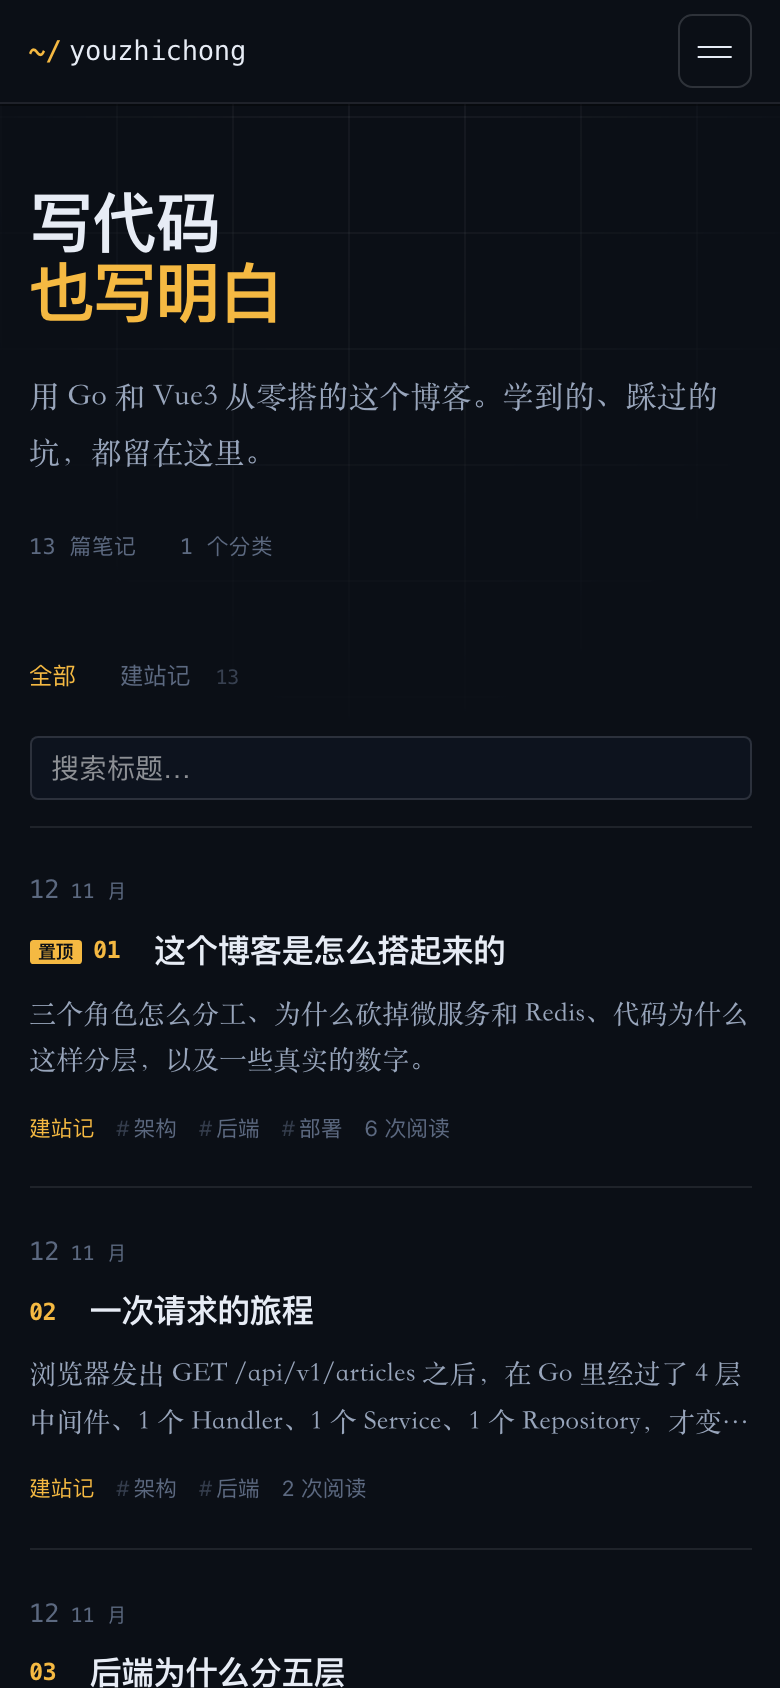
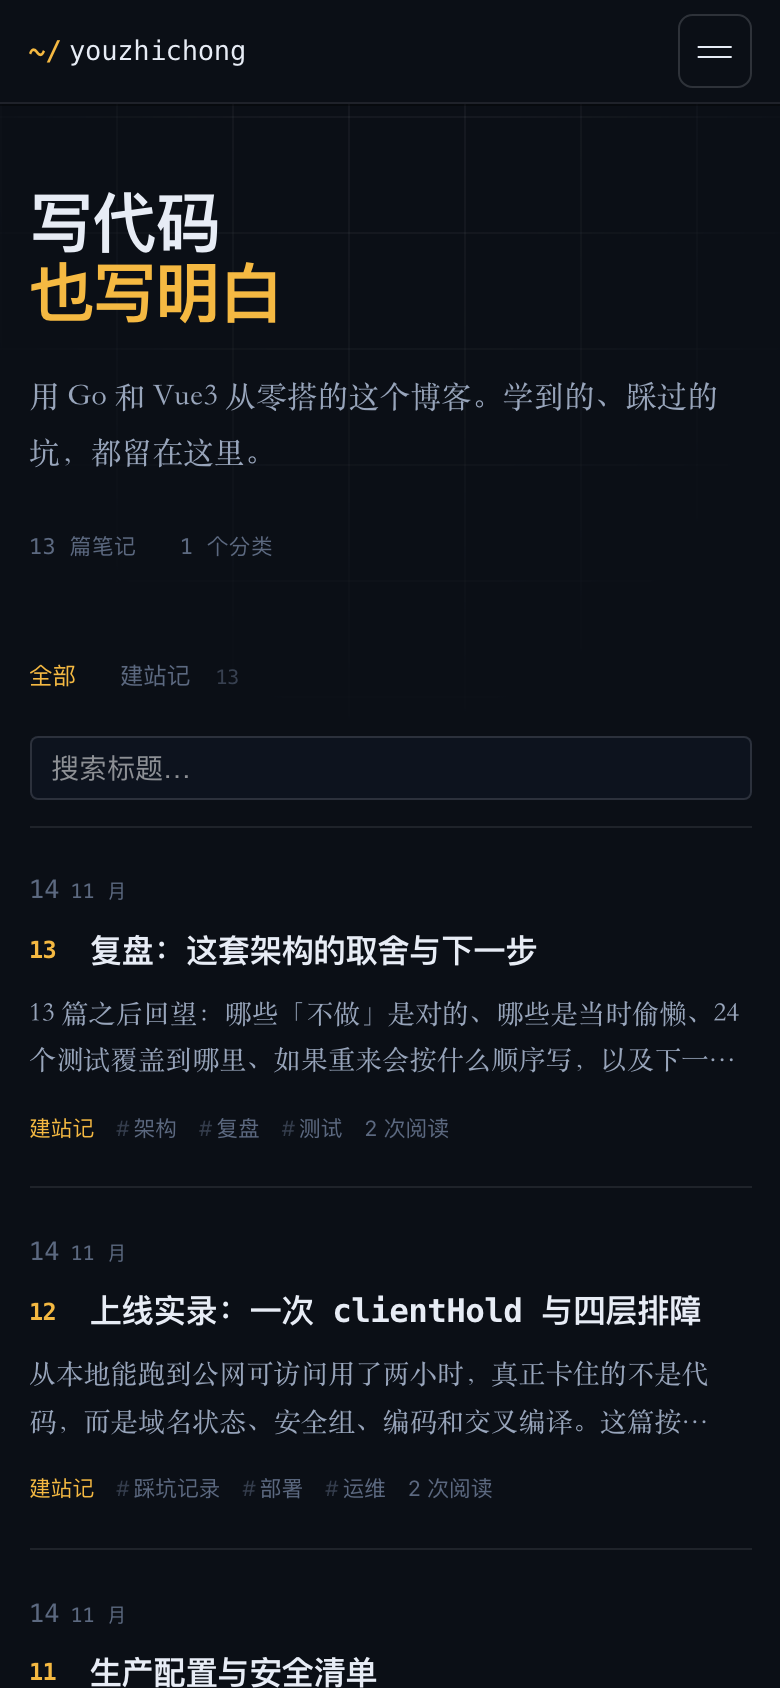
AI: #000000 调整首页排序并重做后台表格与编辑器配色

Changed region(s): [[0.0308, 0.7701, 0.9538, 0.8934], [0.0308, 0.5545, 0.9538, 0.6777], [0.0308, 0.9858, 0.4923, 1.0]]

diff --git a/frontend/src/views/admin/ArticleEdit.vue b/frontend/src/views/admin/ArticleEdit.vue
@@ -10,7 +10,7 @@ import {
 } from '../../api/admin'
 import { fetchCategories, fetchTags } from '../../api/article'
 import { renderMarkdown } from '../../utils/markdown'
-import 'highlight.js/styles/github.css'
+import 'highlight.js/styles/github-dark.css'
 
 const route = useRoute()
 const router = useRouter()
@@ -228,19 +228,19 @@ onMounted(async () => {
 <style scoped>
 .grid {
   display: grid;
-  grid-template-columns: minmax(0, 1fr) 300px;
-  gap: 18px;
+  grid-template-columns: minmax(0, 1fr) 320px;
+  gap: 1rem;
   align-items: start;
 }
 
 .editor {
-  background: #fff;
+  background: var(--panel);
   border: 1px solid var(--line);
-  border-radius: 12px;
-  padding: 18px;
+  border-radius: 0.75rem;
+  padding: 1.125rem;
   display: flex;
   flex-direction: column;
-  gap: 12px;
+  gap: 0.75rem;
 }
 
 .title-input :deep(input) {
@@ -262,11 +262,13 @@ onMounted(async () => {
 
 .preview {
   min-height: 200px;
-  padding: 4px 6px;
-  border: 1px dashed var(--line);
-  border-radius: 8px;
-  font-size: 15px;
-  line-height: 1.8;
+  padding: 1rem 1.125rem;
+  border: 1px solid var(--line);
+  border-radius: 0.5rem;
+  background: #0b0f16;
+  font-size: 0.9375rem;
+  line-height: 1.85;
+  color: var(--ink-2);
 }
 
 .side {
@@ -276,15 +278,24 @@ onMounted(async () => {
 }
 
 .side-block {
-  background: #fff;
+  background: var(--panel);
   border: 1px solid var(--line);
-  border-radius: 12px;
-  padding: 16px;
+  border-radius: 0.75rem;
+  padding: 1rem;
+}
+
+.side-block :deep(.el-form-item__label) {
+  color: var(--ink-2);
+  font-size: 0.75rem;
 }
 
 .side-block h4 {
-  margin: 0 0 12px;
-  font-size: 14px;
+  margin: 0 0 0.875rem;
+  padding-bottom: 0.625rem;
+  border-bottom: 1px solid var(--line);
+  font-family: var(--font-sans);
+  font-size: 0.875rem;
+  color: var(--ink);
 }
 
 .cover-box {
@@ -298,12 +309,13 @@ onMounted(async () => {
 }
 
 .cover-empty {
-  height: 90px;
-  border: 1px dashed var(--line);
-  border-radius: 8px;
+  height: 96px;
+  border: 1px dashed var(--line-strong);
+  border-radius: 0.5rem;
+  background: #0b0f16;
   display: grid;
   place-items: center;
-  font-size: 13px;
+  font-size: 0.8125rem;
 }
 
 .cover-url {
@@ -324,18 +336,20 @@ onMounted(async () => {
 }
 
 .markdown-body :deep(pre) {
-  background: #f8f9fc;
-  border: 1px solid var(--line);
-  border-radius: 8px;
-  padding: 14px;
+  background: #0d131e;
+  border: 1px solid var(--line-strong);
+  border-radius: 0.5rem;
+  padding: 0.875rem 1rem;
   overflow-x: auto;
 }
 
 .markdown-body :deep(code) {
-  background: #f2f4f8;
-  border-radius: 4px;
-  padding: 2px 5px;
+  background: rgba(255, 255, 255, 0.06);
+  border: 1px solid var(--line);
+  border-radius: 0.25rem;
+  padding: 0.1em 0.35em;
   font-size: 0.9em;
+  color: #e9c98d;
 }
 
 .markdown-body :deep(pre code) {
@@ -345,9 +359,9 @@ onMounted(async () => {
 
 .markdown-body :deep(blockquote) {
   margin: 1em 0;
-  padding: 8px 14px;
-  border-left: 3px solid #c9d3ea;
-  background: #f8f9fc;
+  padding: 0.5rem 0.875rem;
+  border-left: 2px solid var(--amber);
+  background: rgba(245, 185, 66, 0.05);
   color: var(--ink-2);
 }
 

diff --git a/frontend/src/layouts/AdminLayout.vue b/frontend/src/layouts/AdminLayout.vue
@@ -82,6 +82,10 @@ onMounted(() => {
 
 <style scoped>
 .admin {
+  /* 前台有一层 fixed 的网格纹理（body::before），后台表格需要干净底色，
+     用 z-index + 实色背景把纹理挡在后面，避免格线和表格线交错。 */
+  position: relative;
+  z-index: 1;
   display: flex;
   min-height: 100vh;
   background: var(--bg);
@@ -235,6 +239,14 @@ onMounted(() => {
 .content {
   flex: 1;
   padding: 1.5rem 1.75rem 3rem;
+}
+
+/* 后台列表页统一放进一块实色面板：表格、工具栏和分页有明确边界 */
+.content :deep(.page) {
+  background: var(--panel);
+  border: 1px solid var(--line);
+  border-radius: 0.75rem;
+  padding: 1rem 1.125rem;
 }
 
 /* ───────── 窄屏：侧栏收成顶部横条 ───────── */

diff --git a/frontend/src/views/admin/ArticleManage.vue b/frontend/src/views/admin/ArticleManage.vue
@@ -157,6 +157,15 @@ onMounted(load)
   flex-wrap: wrap;
 }
 
+/* 表格里 link 按钮的主色在暗色背景上偏灰，显式提亮，保证「编辑」看得清 */
+:deep(.el-button.is-link) {
+  color: var(--amber);
+}
+
+:deep(.el-button.is-link.el-button--danger) {
+  color: #f07575;
+}
+
 .title-cell {
   display: flex;
   align-items: center;
@@ -164,11 +173,12 @@ onMounted(load)
 }
 
 .top {
-  font-size: 11px;
-  color: #fff;
-  background: #ff7a45;
-  border-radius: 3px;
-  padding: 0 5px;
+  font-size: 0.625rem;
+  font-weight: 600;
+  color: var(--bg);
+  background: var(--amber);
+  border-radius: 0.1875rem;
+  padding: 0 0.3125rem;
   flex-shrink: 0;
 }
 

diff --git a/frontend/src/views/Home.vue b/frontend/src/views/Home.vue
@@ -74,8 +74,8 @@ async function loadArticles() {
       category_id: categoryId.value || undefined,
       tag_id: tagId.value || undefined,
       month: month.value || undefined,
-      // 系列文章按发布时间正序：01 → 13，和阅读顺序一致
-      order: 'asc',
+      // 「全部」按时间倒序（新文章在前）；选了具体分类（建站记）时按发布时间正序 01→13
+      order: categoryId.value ? 'asc' : 'desc',
     })
     articles.value = withTitleParts(data.list)
     total.value = data.total || 0
